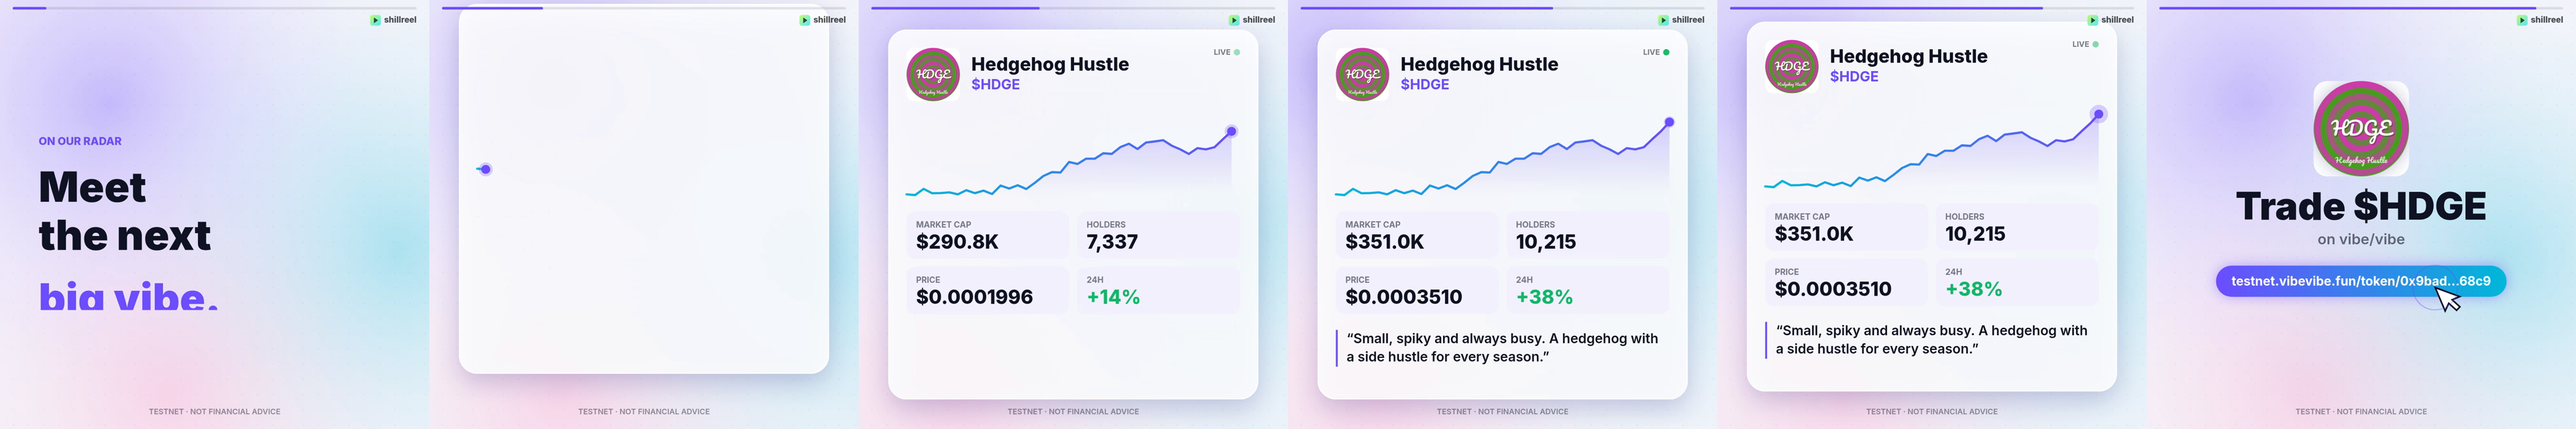
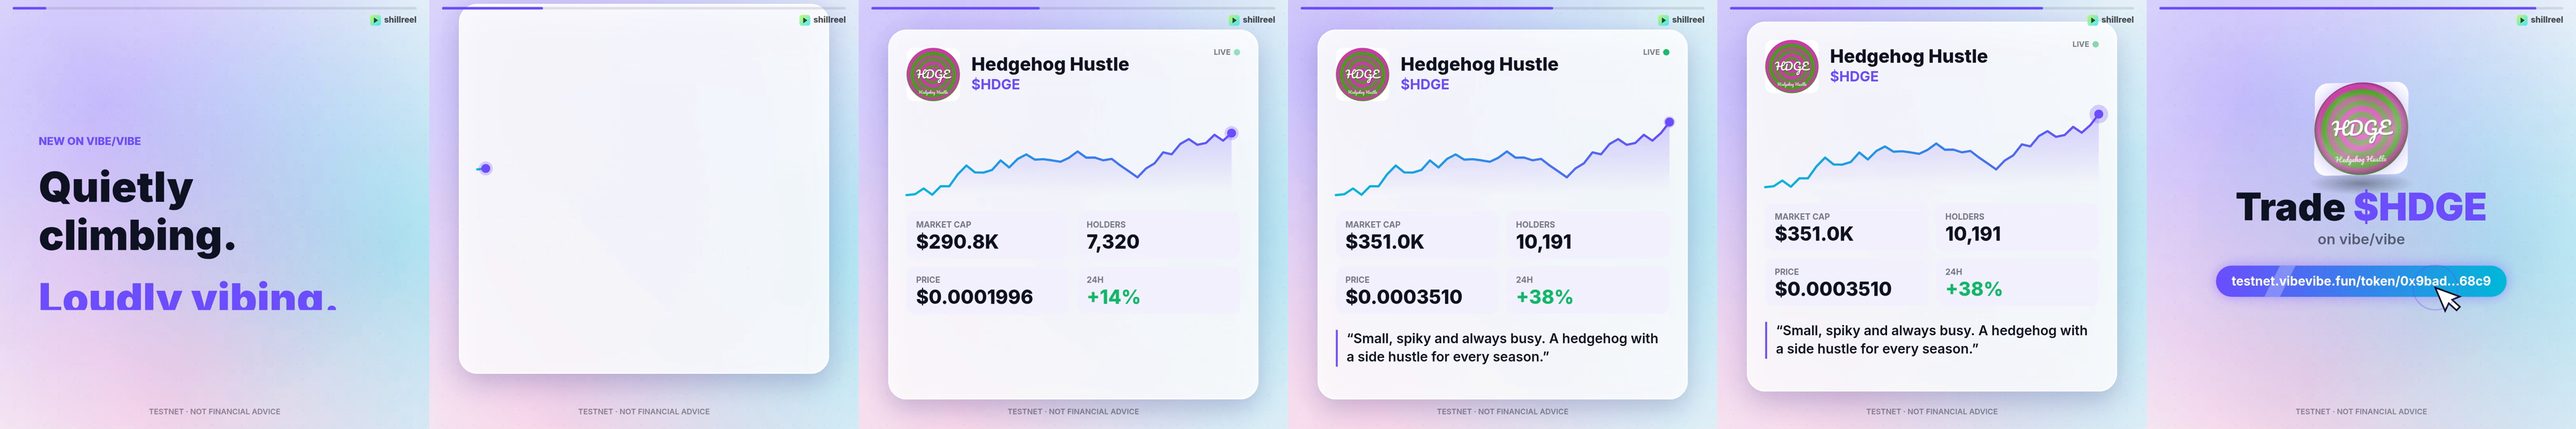
Regenerate frame strips + full template-picker screenshot; strips/ui scripts; README

diff --git a/scripts/ui_templates.py b/scripts/ui_templates.py
@@ -1,0 +1,18 @@
+"""Screenshot the full template picker (all thumbnails) + preview into samples/ui-templates.png."""
+import sys, pathlib
+from playwright.sync_api import sync_playwright
+URL = sys.argv[1] if len(sys.argv) > 1 else 'http://localhost:4173/'
+ADDR = '0x9bad0394db1dc72df8a4f3b52b7c8feafdc468c9'
+OUT = pathlib.Path(__file__).resolve().parent.parent / 'samples'
+with sync_playwright() as p:
+    b = p.chromium.launch(channel='chrome', headless=True)
+    pg = b.new_page(viewport={'width': 1360, 'height': 1400})
+    pg.goto(URL + f'?t={ADDR}&tpl=vapor')
+    pg.wait_for_selector('#fillStatus.ok, #fillStatus.err', timeout=45000)
+    for k, v in {'mcap': '351K', 'price': '0.000351', 'change': '+38'}.items():
+        pg.fill('#' + k, v)
+    pg.wait_for_timeout(3500)
+    pg.evaluate("document.querySelector('.a-style').scrollIntoView()")
+    pg.wait_for_timeout(800)
+    pg.screenshot(path=str(OUT / 'ui-templates.png'))
+    b.close()

diff --git a/README.md b/README.md
@@ -62,6 +62,7 @@ npm run preview      # serve dist/ on http://localhost:4173
 
 End-to-end check (needs Python Playwright + Google Chrome):
 `python3 scripts/e2e.py http://localhost:4173/` renders and downloads an MP4 for every template in 9:16 and 1:1 (plus 10 s / 15 s checks) into `samples/`.
+`scripts/strips.sh` rebuilds `samples/frames/*-strip.png` from the sample MP4s; `python3 scripts/ui_templates.py` re-shoots the picker screenshot.
 `python3 scripts/frames.py /tmp/frames [id,id]` renders contact strips (incl. a very long name/ticker) for eyeballing layouts; `python3 scripts/one.py <id> <9:16|1:1> <T,...> [long]` renders single full-res frames.
 To add a template: create `src/render/<id>.ts` exporting a `Template`, register it in `src/templates.ts`, and (optionally) add a beat style in `src/music.ts`.
 
